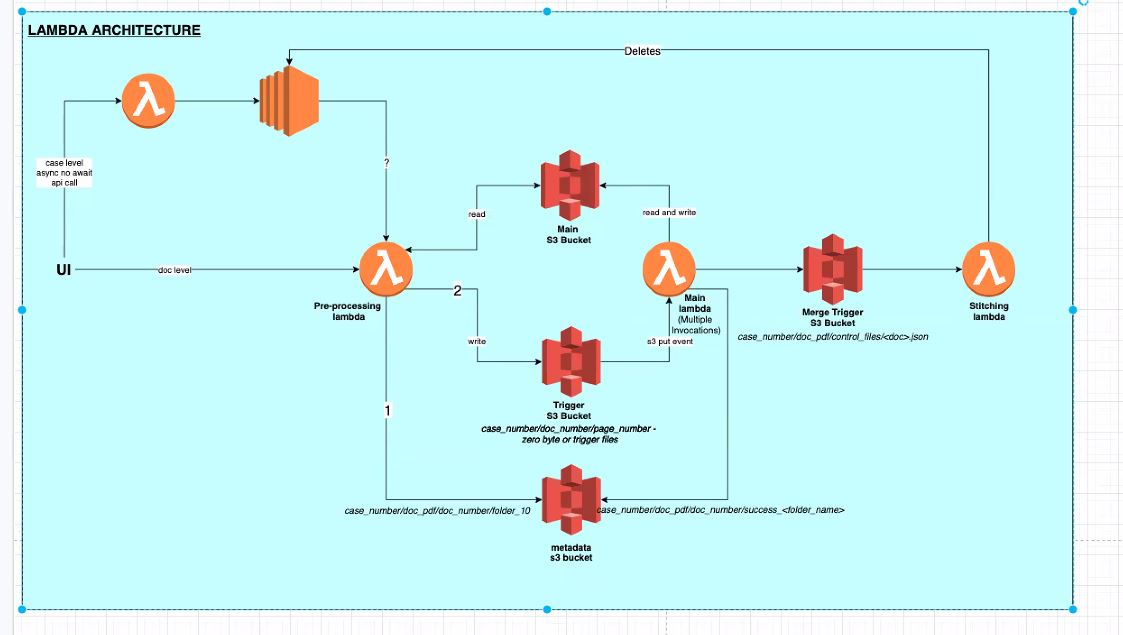
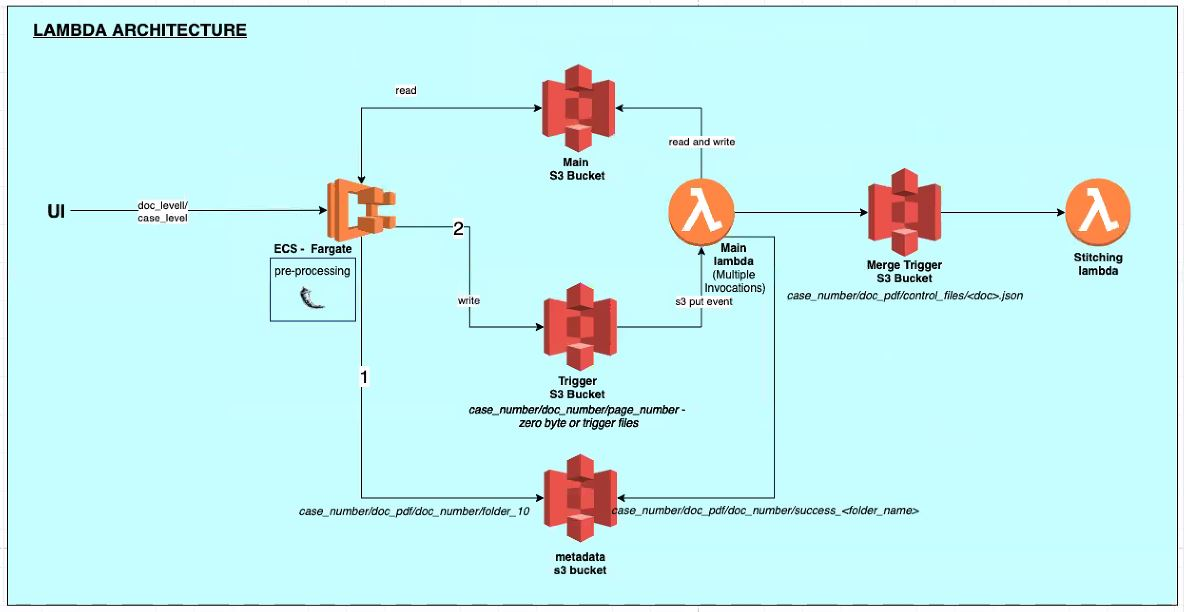
update readme and updated project arch v4 with fargate

diff --git a/README.md b/README.md
@@ -72,4 +72,7 @@ Note: clear the credentials and set these.
 - [ ] Check eml files. wkhtmltopdf reported an error: Error: This version of wkhtmltopdf is build against an unpatched version of QT, and does not support more than one input document. Exit with code 1, due to unknown error. https://bradley-schoeneweis.medium.com/converting-html-to-a-pdf-using-python-aws-lambda-and-wkhtmltopdf-8dbadf58b879
 - [ ] Check and optimise the flow, names and deletion activities.
 - [ ] Add log creation to S3 based on trigger folder. Use tempfile and create a log and put all info in the file. Transfer the file to S3 in 2021/09/16/TriggerFolderName.log
-- [ ] Explore ECS for case level using Fargate
+- [x] Explore ECS for case level using Fargate
+- [ ] make a single build and push script for both docker file using params
+- [ ] cname for url - R&D on url
+- [ ] fix preprcessing to create metadata for document level only
